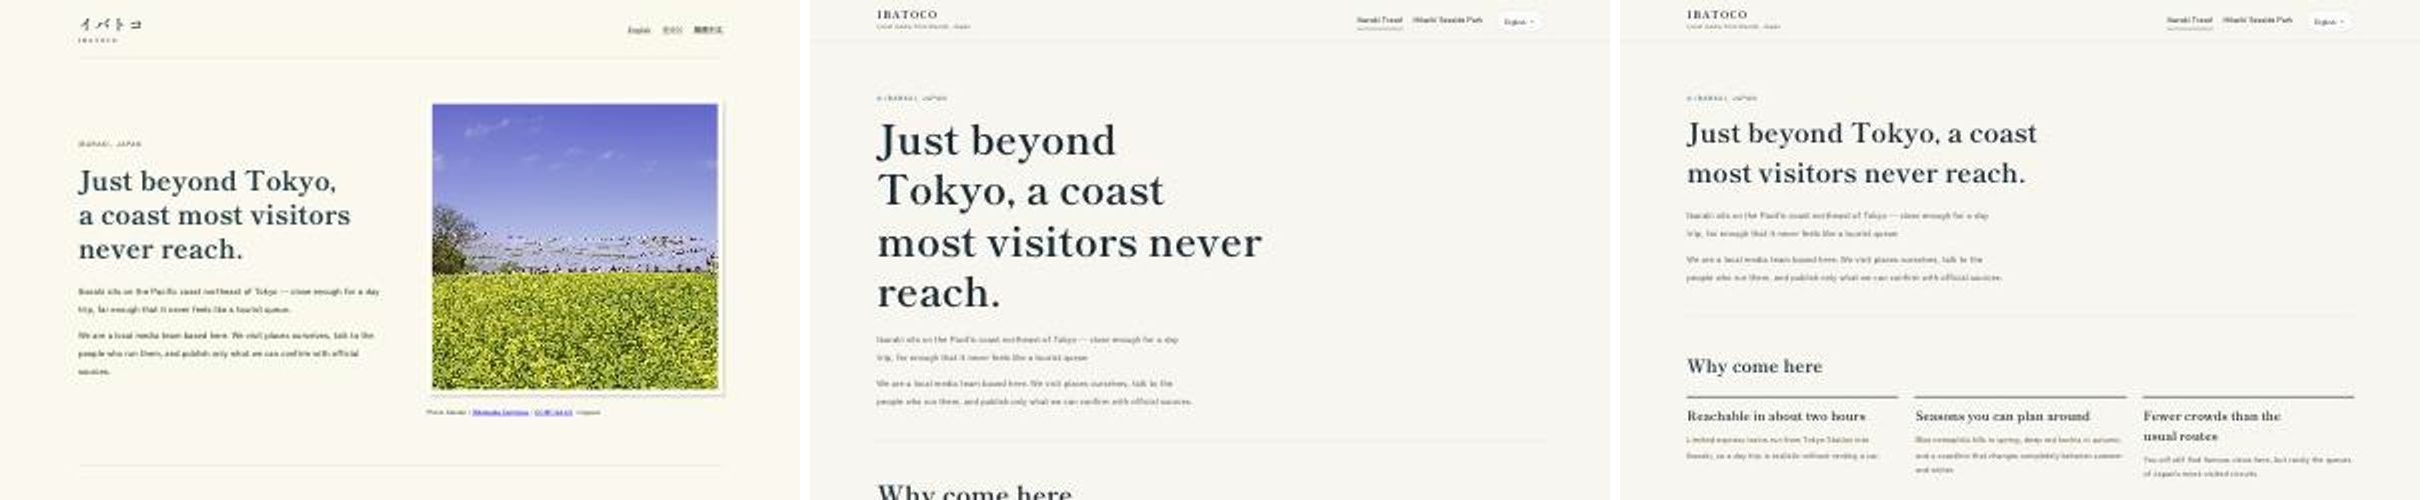
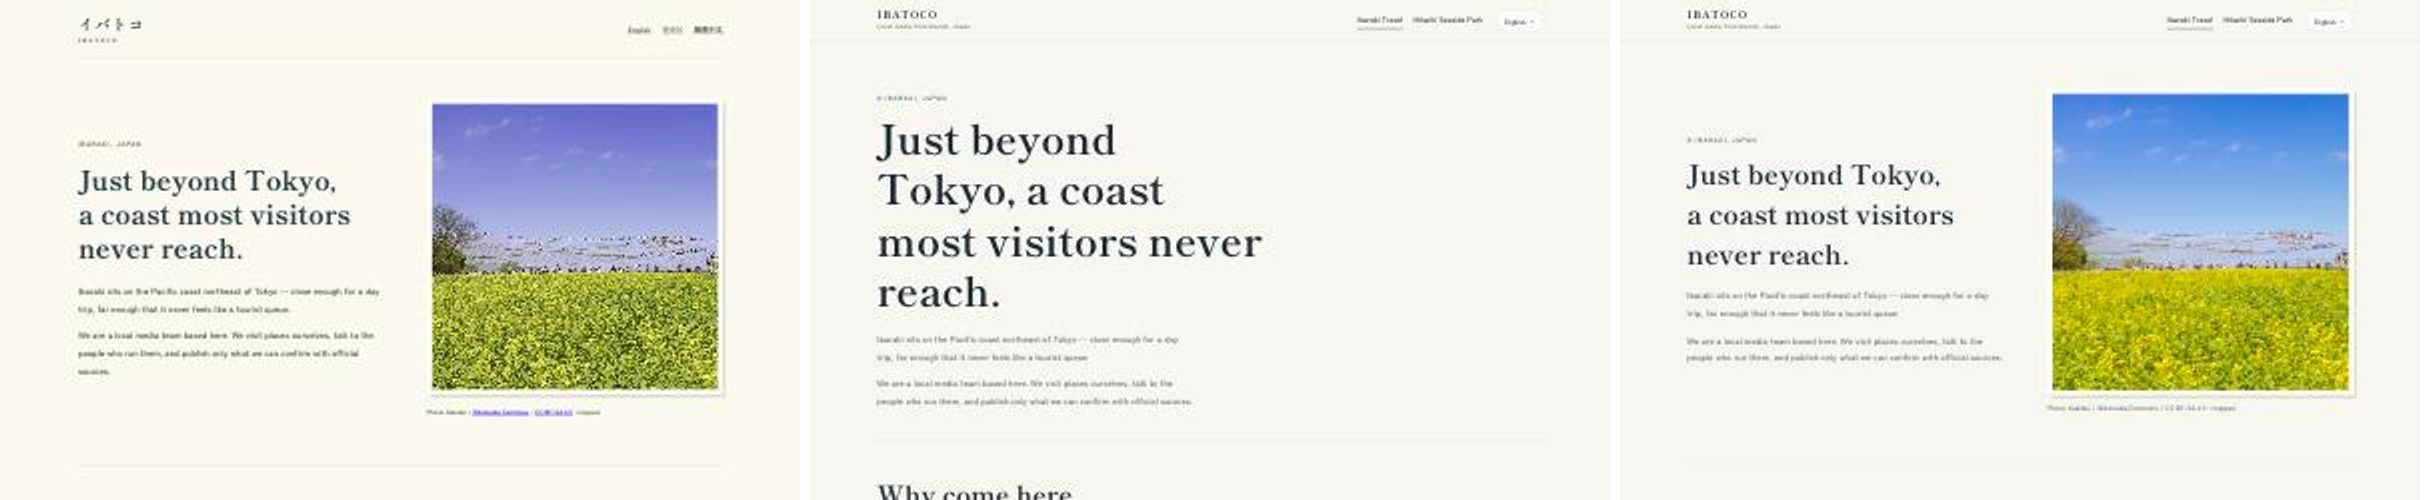
design: 多言語TOPに冒頭の実写写真とクレジット、/reserve/ に見出しの帯・挿絵・関連リンクの区画を置き、狭い画面の言語メニューを画面内に収める（#532 E）
- 写真は日本語TOPのFVと同じ原本（Kakidai / Wikimedia Commons / CC BY-SA 4.0、2025_Hitachi_Seaside_Park.jpg）。各言語で代替テキストとクレジット（トリミング表示）
- /reserve/：説明・既存リンク（/place/・/contact/）はそのまま。追加は /area/・/course/・/food-library/ の3件で、予約先・予約機能は追加していない
- 言語メニュー：320〜340pxで面が画面の左外へ約100px出ていた。はみ出すときだけ左端そろえにする（PCは従来どおり右端そろえ）

Changed region(s): [[0.679, 0.18, 0.9877, 0.84], [0.679, 0.87, 0.9568, 0.96], [0.679, 0.18, 0.7099, 0.21]]

diff --git a/src/data/intl-home.ts b/src/data/intl-home.ts
@@ -11,6 +11,8 @@ export interface IntlHome {
   kicker: string;
   h1: string;
   lead: string[];
+  /** 冒頭の写真（Kakidai / Wikimedia Commons / CC BY-SA 4.0。日本語TOPのFVと同じ原本）の代替テキストとクレジット表記 */
+  heroPhoto: { alt: string; credit: string; cropped: string };
   whyHeading: string;
   why: { title: string; text: string }[];
   guidesHeading: string;
@@ -25,6 +27,7 @@ export const INTL_HOME: Record<Exclude<Locale, 'ja'>, IntlHome> = {
     title: 'Ibaraki Travel Guide — Just Beyond Tokyo | IBATOCO',
     description: 'Ibaraki is about two hours from Tokyo: seaside parks, flower hills, waterfalls and coastal towns. Practical, fact-checked travel guides written by a local media team based in Ibaraki.',
     kicker: 'IBARAKI, JAPAN',
+    heroPhoto: { alt: 'Blue nemophila in bloom at Hitachi Seaside Park', credit: 'Photo', cropped: 'cropped' },
     h1: 'Just beyond Tokyo, a coast most visitors never reach.',
     lead: [
       'Ibaraki sits on the Pacific coast northeast of Tokyo — close enough for a day trip, far enough that it never feels like a tourist queue.',
@@ -63,6 +66,7 @@ export const INTL_HOME: Record<Exclude<Locale, 'ja'>, IntlHome> = {
     title: '茨城旅遊指南｜從東京出發的近郊小旅行 | IBATOCO',
     description: '茨城距離東京約兩小時，有海濱公園、粉蝶花山丘、瀑布與海岸小鎮。由茨城在地媒體實際走訪、查證官方資料後撰寫的實用旅遊指南。',
     kicker: '日本 茨城',
+    heroPhoto: { alt: '國營常陸海濱公園盛開的粉蝶花（Nemophila）', credit: '照片', cropped: '經裁切' },
     h1: '距離東京兩小時，多數旅客還沒去過的海岸。',
     lead: [
       '茨城位於東京東北方的太平洋沿岸——近到可以當天來回，卻又不像熱門景點那樣總是在排隊。',
@@ -101,6 +105,7 @@ export const INTL_HOME: Record<Exclude<Locale, 'ja'>, IntlHome> = {
     title: '이바라키 여행 가이드 — 도쿄 근교 | IBATOCO',
     description: '이바라키는 도쿄에서 약 2시간. 해변공원과 꽃 언덕, 폭포와 바닷가 마을이 있습니다. 이바라키 현지 매체가 직접 찾아가 공식 자료로 확인해 쓴 실용 여행 가이드.',
     kicker: '일본 이바라키',
+    heroPhoto: { alt: '히타치 해변공원에 핀 네모필라', credit: '사진', cropped: '일부 잘라냄' },
     h1: '도쿄에서 두 시간, 아직 많이 알려지지 않은 바닷가.',
     lead: [
       '이바라키는 도쿄 북동쪽 태평양 연안에 있습니다. 당일치기가 가능할 만큼 가깝지만, 유명 관광지처럼 줄을 서는 일은 드뭅니다.',
